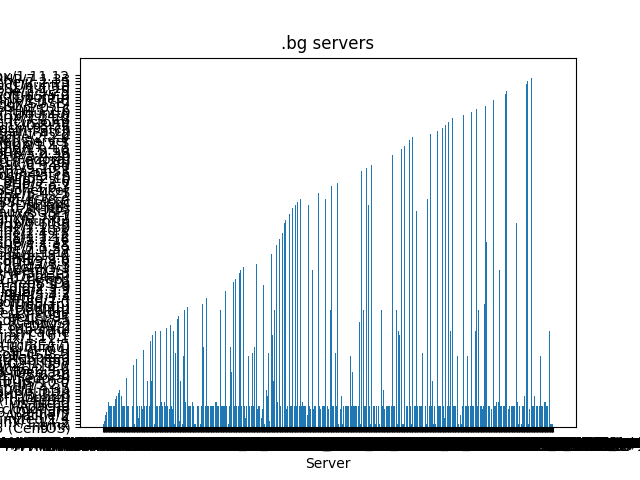
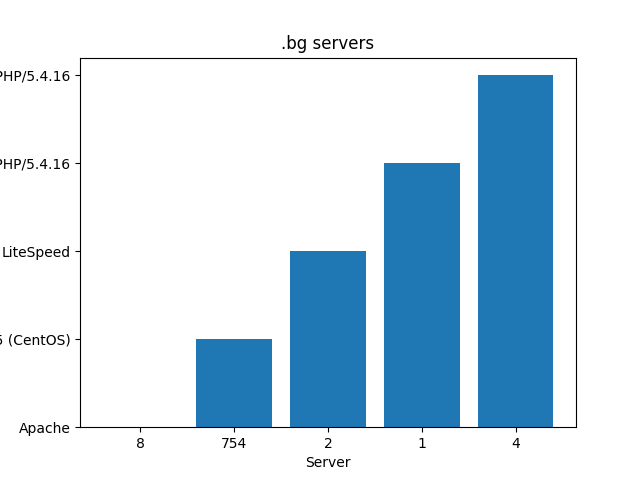
version 3

diff --git a/crawler/crawler.py b/crawler/crawler.py
@@ -1,6 +1,7 @@
-from crawler.urls.url_gateway import UrlsGateway
+from crawler.urls.url_gateway import UrlsGateway, Urls_Source_Gateway
 from bs4 import BeautifulSoup as bs
 import requests
+from datetime import datetime
 
 
 def craw_url(url):
@@ -10,42 +11,72 @@ def craw_url(url):
         soup = bs(request.content, 'html.parser')
 
         for link in soup.findAll('a'):
-            url = link.get('href')
-            if url:
-                if url.count('link.php') > 0:
-                    url = f'https://register.start.bg/{url}'
-                if url.count('https://register.start.bg') > 0:
-                    # print(url)
-                    if UrlsGateway().check_for_existing(name=url) is None:
+            if UrlsGateway().check_for_existing(name=link) is None:
+                url = link.get('href')
+                if url:
+
+                    urls_https = url.count('https://') > 0
+                    urls_hhtp = url.count('http://') > 0
+                    url_bg = url.count('.bg') > 0
+                    normal_link = (url_bg and (urls_hhtp or urls_https))
+                    if url.count('.php') == 0 and url_bg:
+                        num = url.find('.bg')
+                        num += 3
+                        url = url[:num:]
+
+                    if url.count('link.php') > 0:
+                        url = f'https://register.start.bg/{url}'
+
+                    if normal_link or url.count('https://register.start.bg'):
                         try:
-                            r_in = requests.get(url, timeout=3)
-                            print(r_in.url)
-                            try:
-                                UrlsGateway().insert_url(name=r_in.url, server=r_in.headers["Server"])
-                            except Exception as e:
-                                print(e)
+                            print(url)
+                            if UrlsGateway().check_for_existing(name=url) is None:
+                                try:
+                                    r_in = requests.head(url, timeout=3)
+                                    UrlsGateway().insert_url(name=r_in.url, server=r_in.headers["Server"], time_visit=datetime.now()) # noqa
+                                except Exception:
+                                    pass
+                            else:
+                                print('been here')
                         except Exception:
-                            print("site broke")
-                    else:
-                        print("been here")
+                            pass
 
     except Exception:
         pass
 
-'''
-Used before
-def crawler_recursion(url, visited):
 
-    if visited is None:
-        visited = list()
+def inside_crawl():
+    for links in UrlsGateway().get_urls():
+        if links[4] == 0:
+            print(links[4])
+            request = None
+            try:
+                id_link = links[0]
+                request = requests.get(links[1])
+                soup = bs(request.content, 'html.parser')
 
-    if url is not None:
-        visited.append(url)
-        if craw_url(url):
-            for link in craw_url(url):
-                if link not in visited:
-                    result = crawler_recursion(link, visited)
-                    if result is not None:
-                        # print(result)
-                        return result
-'''
+                for link in soup.findAll('a'):
+
+                    url = link.get('href')
+                    if url:
+                        urls_https = url.count('https://') > 0
+                        urls_hhtp = url.count('http://') > 0
+                        url_bg = url.count('.bg') > 0
+                        normal_link = (url_bg and (urls_hhtp or urls_https))
+                        if normal_link or url.count('https://register.start.bg'):
+                            try:
+                                print(url)
+                                if Urls_Source_Gateway().check_for_existing(name=url) is None:
+                                    try:
+                                        r_in = requests.head(url, timeout=3)
+                                        Urls_Source_Gateway().insert_url(name=r_in.url, server=r_in.headers["Server"], time_visit=datetime.now(), visited=True, parent_url=id_link) # noqa
+                                    except Exception:
+                                        # print(e)
+                                        pass
+                                else:
+                                    print('been here')
+                            except Exception:
+                                pass
+
+            except Exception:
+                pass

diff --git a/crawler/urls/url_gateway.py b/crawler/urls/url_gateway.py
@@ -1,20 +1,41 @@
-from crawler.urls.modul import Url
+from crawler.urls.modul import Url, Url_Source
 from crawler.decorator.session import atomicmethods
-
+from sqlalchemy import func
 
 @atomicmethods
 class UrlsGateway:
     def __init__(self):
         self.url = Url
 
-    def insert_url(self, session, *, name, server):
+    def insert_url(self, session, *, name, server, time_visit, visited):
         try:
-            session.add(Url(name=name, server=server))
+            session.add(Url(name=name, server=server, time_visit=time_visit, visited=visited))
         except Exception as e:
             return e
 
     def check_for_existing(self, session, *, name):
         return session.query(Url.name).filter(Url.name == name).first()
 
+    def get_urls(self, session):
+        return session.query(Url.url_id, Url.name, Url.server, Url.time_visit, Url.visited).all()
+
     def get_urls_server(self, session):
-        return session.query(Url.name, Url.server).all()
+        return session.query(func.count(Url.server), Url.server).group_by(Url.server).all()
+
+
+@atomicmethods
+class Urls_Source_Gateway:
+    def __init__(self):
+        self.url = Url_Source
+
+    def insert_url(self, session, *, name, server, time_visit, visited, parent_url):
+        try:
+            session.add(Url_Source(name=name, server=server, time_visit=time_visit, visited=visited, parent_url=parent_url)) # noqa
+        except Exception as e:
+            return e
+
+    def check_for_existing(self, session, *, name):
+        return session.query(Url_Source.name).filter(Url_Source.name == name).first()
+
+    # def get_urls_server(self, session):
+    #     return session.query(Url_Source.name, Url_Source.server, Url_Source.time_visit, Url_Source.visited).all()

diff --git a/crawler/urls/modul.py b/crawler/urls/modul.py
@@ -1,5 +1,6 @@
-from sqlalchemy import Column, Integer, String
+from sqlalchemy import ForeignKey, BOOLEAN, Column, Integer, String, DateTime
 from crawler.database.db import Base
+from sqlalchemy.orm import relationship
 
 
 class Url(Base):
@@ -7,3 +8,16 @@ class Url(Base):
     url_id = Column(Integer, primary_key=True)
     name = Column(String, unique=True)
     server = Column(String)
+    time_visit = Column(DateTime)
+    visited = Column(BOOLEAN, default=False)
+
+
+class Url_Source(Base):
+    __tablename__ = 'urls_source'
+    url__source_id = Column(Integer, primary_key=True)
+    name = Column(String, unique=True)
+    server = Column(String)
+    time_visit = Column(DateTime)
+    visited = Column(BOOLEAN)
+    parent_url = Column(Integer, ForeignKey(Url.url_id))
+    parent = relationship(Url, backref='urls_source')

diff --git a/main.py b/main.py
@@ -1,17 +1,19 @@
-from crawler.crawler import craw_url
+from crawler.crawler import craw_url, inside_crawl
 from crawler.draw import plot_links
 from crawler.urls.url_gateway import UrlsGateway
 
 
 def main():
     start = "https://register.start.bg"
+    # craw_url(start)
+    # inside_crawl()
+
     if UrlsGateway().get_urls_server():
         dict_urls = dict()
         for links in UrlsGateway().get_urls_server():
                 dict_urls[links[0]] = links[1] # noqa
+        print(dict_urls)
         plot_links(dict_urls)
-    else:
-        craw_url(start)
 
 
 if __name__ == '__main__':

diff --git a/setup.py b/setup.py
@@ -1,9 +1,13 @@
 from crawler.database.db import *
-from crawler.urls.modul import Url # noqa
+from crawler.urls.modul import Url, Url_Source # noqa
 
 
 def main():
-    Base.metadata.create_all(engine)
+
+    try:
+        Base.metadata.create_all(engine)
+    except Exception as e:
+        raise e
 
 
 if __name__ == '__main__':
